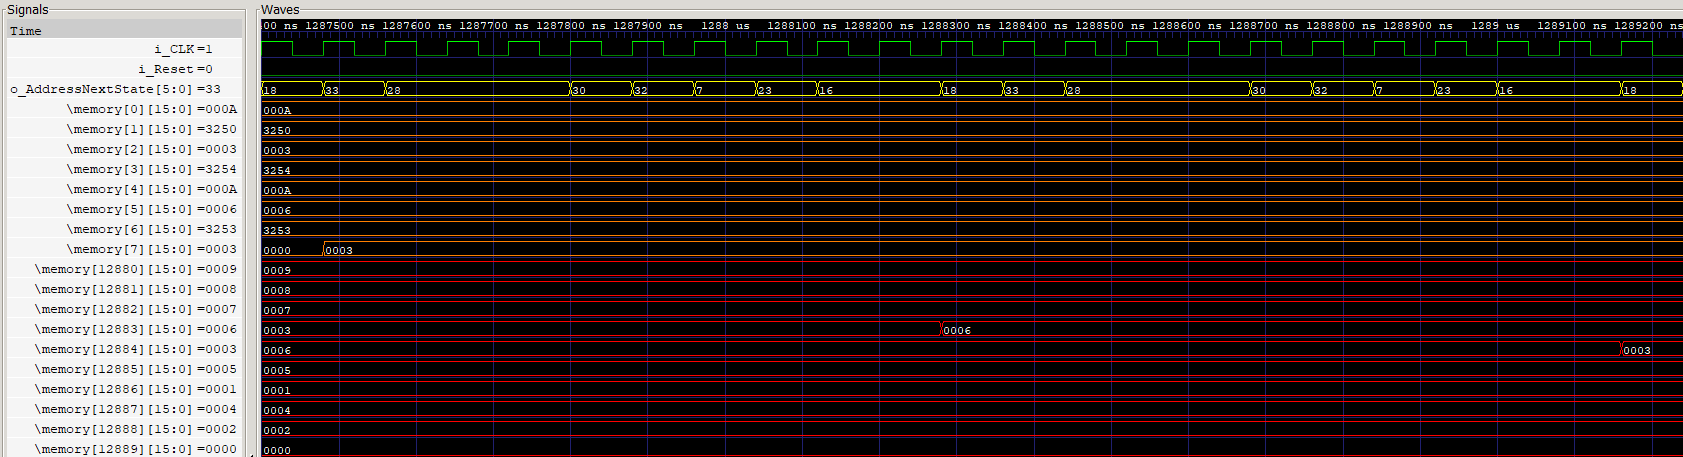
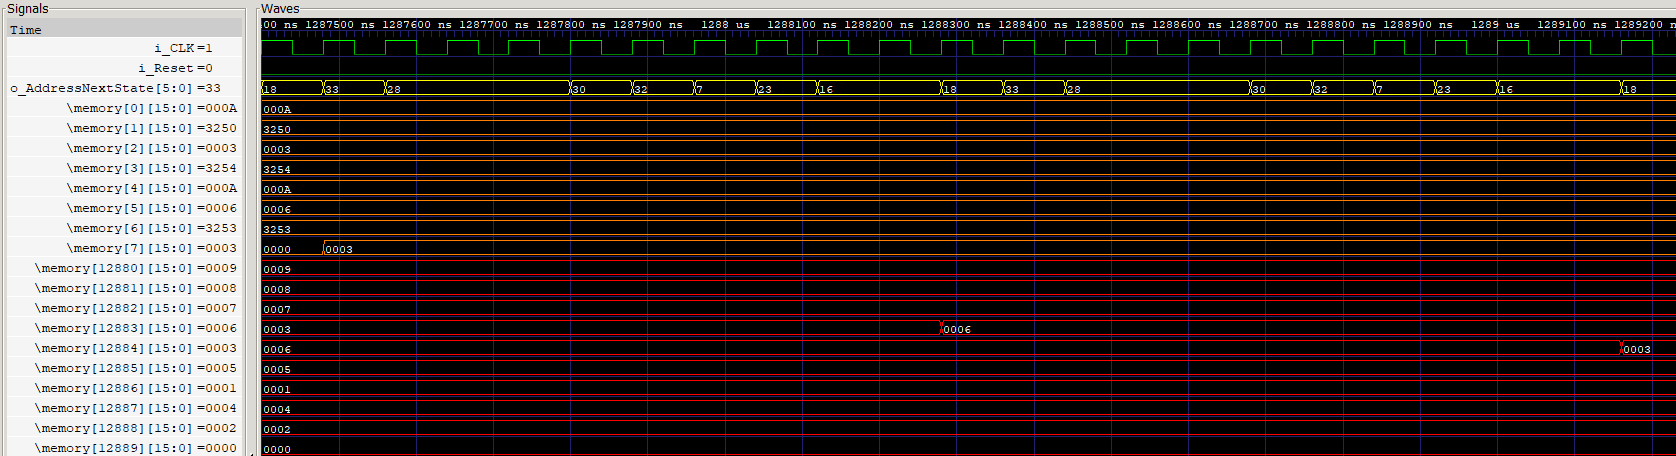
Updated ReadMe

Changed region(s): [[0.0, 0.0, 1.0, 1.0], [0.0, 0.0614, 0.031, 0.0921]]

diff --git a/README.md b/README.md
@@ -2,7 +2,7 @@
 
 ## Project Overview
 
-This project is an accurate implementation of the Little Computer 3 (LC-3) Instruction Set Architecture (ISA) and Microarchitecture, as described in the textbook *"Introduction to Computing Systems: From Bits and Gates to C/C++ & Beyond, Third Edition"* by Yale Patt. To create this project I primarily used the LC-3 Finite State Machine (FSM) and Datapath I learned about in Dr. Patt's ECE 306 class at UT Austin. This Verilog implementation demonstrates the core aspects and instructions of the LC-3 CPU design, excluding interrupt and exception control (which will hopefully be added in the future). This project also demonstrates how LC-3 Assembly programs can be run on the LC-3 through an example sorting algorithm.
+This project is an accurate implementation of the Little Computer 3 (LC-3) Instruction Set Architecture (ISA) and Microarchitecture, as described in the textbook *Introduction to Computing Systems: From Bits and Gates to C/C++ & Beyond, Third Edition* by Yale Patt. To create this project I primarily used the LC-3 Finite State Machine (FSM) and Datapath I learned about in Dr. Patt's ECE 306 class at UT Austin. This Verilog implementation demonstrates the core aspects and instructions of the LC-3 CPU design, excluding interrupt and exception control (which will hopefully be added in the future). This project also demonstrates how LC-3 Assembly programs can be run on the LC-3 through an example sorting algorithm.
 
 ## Features
 
@@ -23,37 +23,28 @@ Memory values being sorted into descending order:
 
 A store (STR) instruction moving two number, 6 and 3, into their sorted order:
 ![Image of store instruction iterating through its FSM states](docs/LC3-STR-States-WaveformView.png)
-> Red traces are memory values. Additionally, by referring to the [LC-3's Finite State Machine](docs/LC3_State_Machine.pdf), it can be seen that that the `o_addressNextState` transitions from state 18, 33, 28, 30, 32, 7, 23, and finally to 16, are the correct state transitions to execute the STR instruction.
+> Red traces are memory values, and the yellow trace, `o_addressNextState`, is the next state of the FSM to be executed. Additionally, by referring to the [LC-3's FSM](docs/LC3_State_Machine.pdf), it can be seen that the state transitions from 18, 33, 28, 30, 32, 7, 23, and to 16 are the correct state transitions to execute the STR instruction.
 
-## Challenges and Learning
-
-### Challenges
+## Challenges
 
 **1. Understanding the Microarchitecture:**
    The most significant challenge of this project was fully understanding the LC-3 microarchitecture, particularly the interaction between the control store and the register file. This was a gap in my prior knowledge from Dr. Patt’s ECE 306 class, so I spent time understanding how clocked components like the control store and register file synchronized to perform operations within a single clock cycle. A key realization was that while writes to the register file are clocked, reads are not, allowing for asynchronous access. This insight was crucial for implementing instructions such as `R1 <- R1 + 1` in one clock cycle.
 
 **2. Correct Implementation of the LC-3:**
-   Implementing the LC-3 required breaking down the datapath into submodules, testing them individually, and then integrating them. This process, while conceptually straightforward, was a valuable exercise in developing testbenches and debugging with waveform viewers. It highlighted the importance of careful module integration and systematic verification.
-
-### Learning Outcomes
-
-Through this project, I gained a deeper understanding of CPU microarchitecture design and testing. Specifically:
-
-- **Microarchitecture Integration:** I learned the importance of synchronization between clocked and unclocked components, and the need for precise timing interaction between different parts of the datapath to achieve the desired result.
-  
-- **Verilog Design and Debugging:** Breaking down the datapath into submodules and testing them individually honed my skills in Verilog design and debugging. I developed a more systematic approach to verifying complex systems and gained proficiency in using waveform viewers to diagnose and resolve issues.
-
-Overall, this project enhanced my ability to implement and debug intricate computer architecture systems, providing a solid foundation for future work in hardware design and verification.
+   Implementing the LC-3 required breaking down the datapath into submodules, testing them individually, and then integrating them. This process, while conceptually straightforward, was a valuable exercise in developing testbenches and debugging with waveform viewers.
 
 ## Project Structure
 
-- **`src/`**: Verilog source files.
+- **`src/`**:
   - **`datapath.v`**: Top Module that implements all submodules of the LC-3.
   - **`datapath_tb.v`**: Simple Testbench used to simulate the LC-3 processing of an LC-3 Assembly program.
   - **`control_logic.v`**: Handles the control signals and state transitions based on the LC-3 ISA.
-- **`Programs/`**: Assembly programs.
+- **`ControlSignals/`**:
+  - **`ControlStore.csv`**: Contains control signals (in an easy to edit format) for each state implemented thus far.
+  - **`convert.py`**: Converts `ControlStore.csv` into binary format so it can be put into the Control Store's memory.
+- **`Programs/`**:
   - **`AssemblySortingAlgorithm.mem`**: Simple algorithm to sort 2's compliment values in descending order.
-  - **`SimpleAssembler.py`**: Rudimentary Assembler that I used to convert LC-3 Assembly to their binary values during testing.
+  - **`SimpleAssembler.py`**: Rudimentary assembler that I used to convert during testing.
 - **`sim/`**: Old testbenches used to verify the functionality of submodules.
 - **`docs/`**: Relevant documentation and images (ISA, Data Path, FSM).
 
@@ -88,7 +79,7 @@ In the future, I plan to extend this project by incorporating interrupt and exce
 
 ## References
 
-- Patt, Yale N., and Patel, Sanjay J. *"Introduction to Computing Systems: From Bits & Gates to C/C++ and Beyond."* McGraw-Hill Education, 3rd edition.
+- Patt, Yale N., and Patel, Sanjay J. *Introduction to Computing Systems: From Bits & Gates to C/C++ and Beyond.* McGraw-Hill Education, 3rd edition.
 
 ## Contact Information
 
